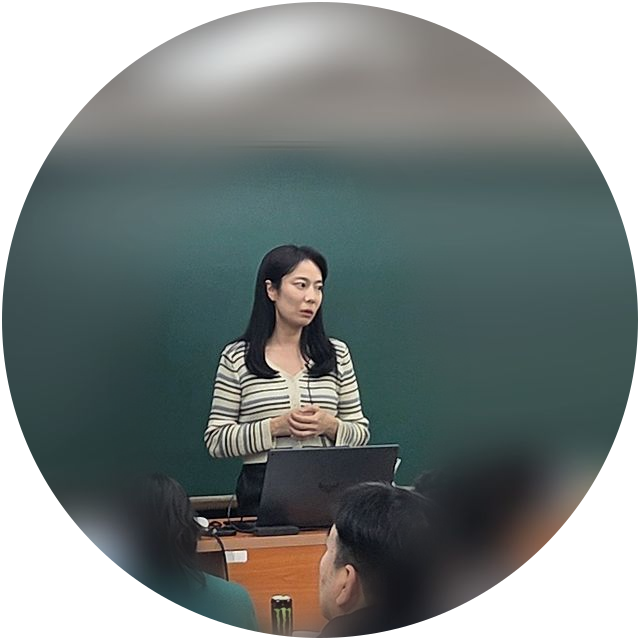
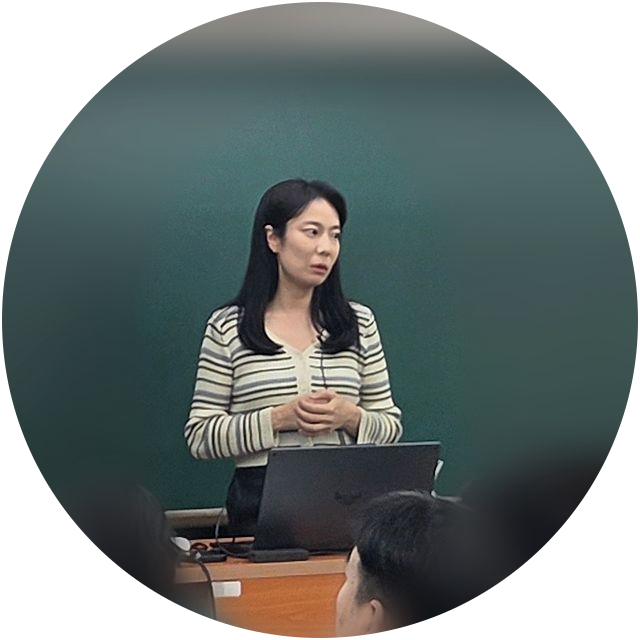
Focus instructor badges on presenter

diff --git a/Plano.html b/Plano.html
@@ -775,7 +775,7 @@
     letter-spacing: -0.01em;
   }
   .lecture-badge {
-    width: 148px;
+    width: 222px;
     aspect-ratio: 1;
     flex: 0 0 auto;
     margin: 0;
@@ -813,7 +813,7 @@
       order: -1;
     }
     .lecture-badge {
-      width: 118px;
+      width: 156px;
     }
   }
 
@@ -1326,7 +1326,7 @@
         <p class="studio">Hueflow Studio</p>
       </div>
       <figure class="lecture-badge" aria-label="강의 현장 사진">
-        <img src="assets/instructor-plano-badge.png" alt="강의 현장에서 수업을 진행하는 김예진 강사">
+        <img src="assets/instructor-plano-badge.png?v=2" alt="강의 현장에서 수업을 진행하는 김예진 강사">
       </figure>
     </div>
     <ul class="dash-list credits">

diff --git a/Contact.html b/Contact.html
@@ -138,7 +138,7 @@
     margin: 0;
   }
   .lecture-badge {
-    width: 148px;
+    width: 222px;
     aspect-ratio: 1;
     flex: 0 0 auto;
     margin: 0 0 6px;
@@ -160,7 +160,7 @@
       padding-bottom: 72px;
     }
     .lecture-badge {
-      width: 118px;
+      width: 156px;
       margin-bottom: 0;
     }
   }
@@ -282,7 +282,7 @@
       <p class="studio">Hueflow Studio</p>
     </div>
     <figure class="lecture-badge" aria-label="강의 현장 사진">
-      <img src="assets/instructor-contact-badge.png" alt="강의 현장에서 발표하는 김예진 강사">
+      <img src="assets/instructor-contact-badge.png?v=2" alt="강의 현장에서 발표하는 김예진 강사">
     </figure>
   </section>
 
